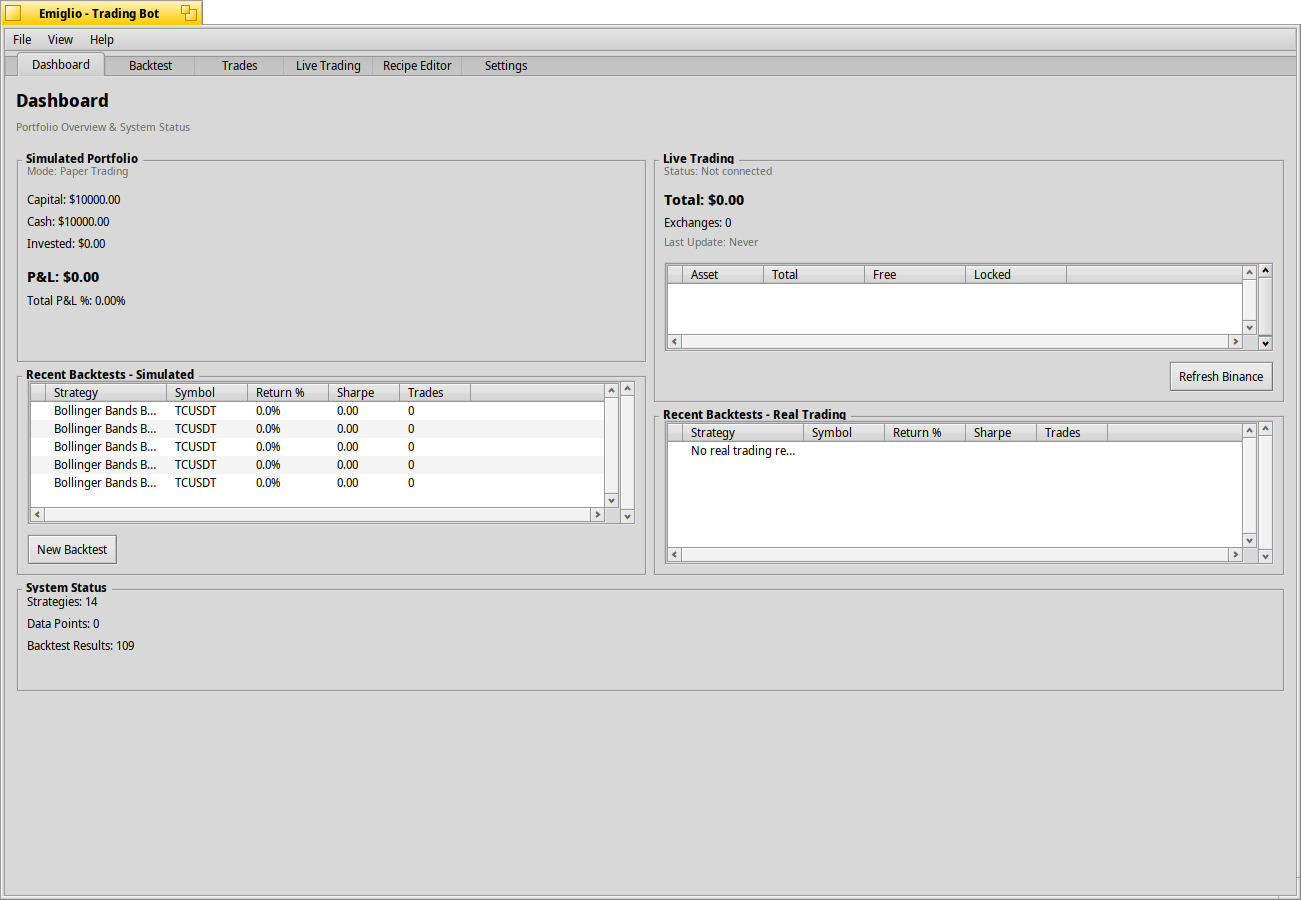
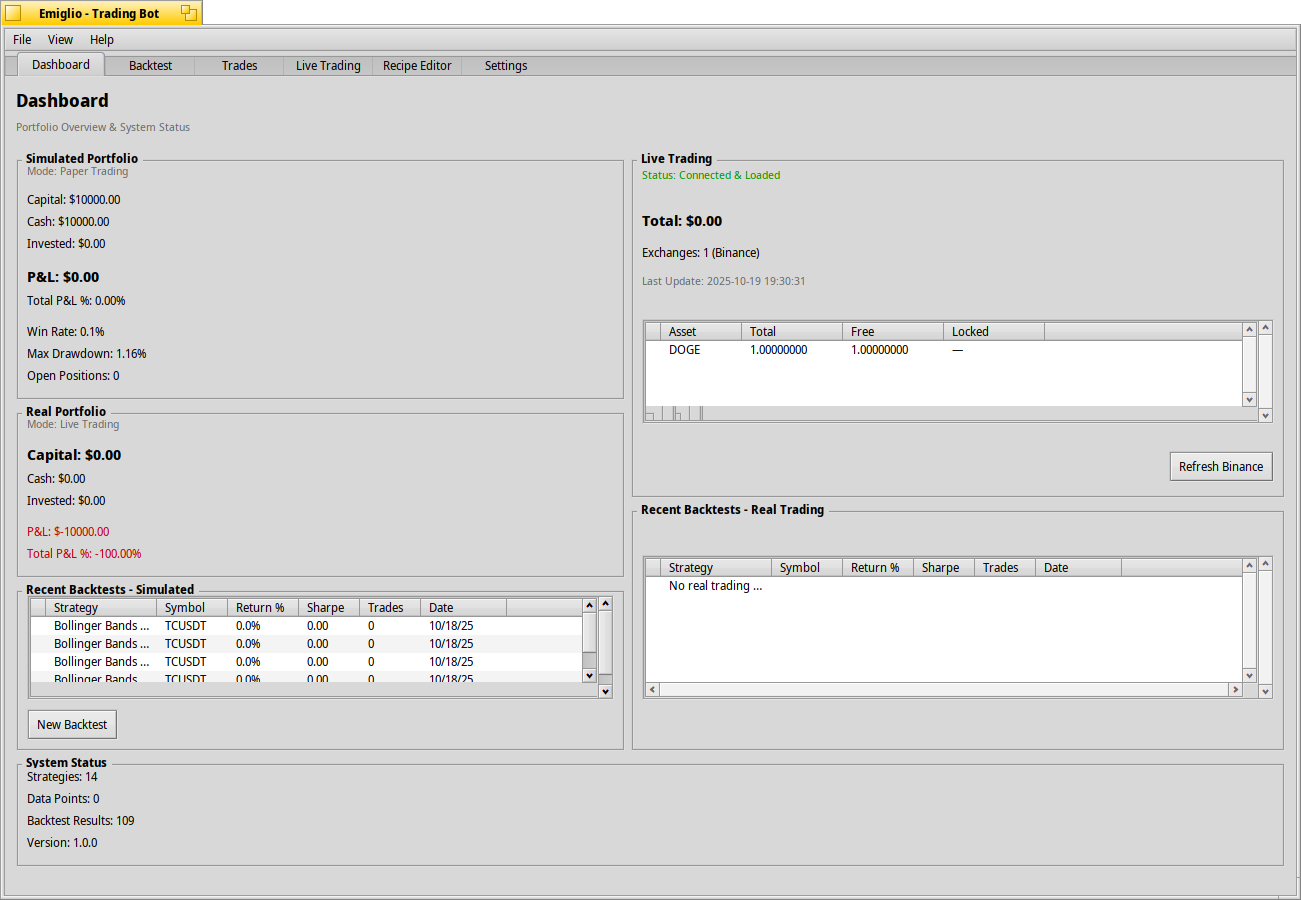
Rationalize Dashboard GUI: clearer section names and fixed placeholders
Improved Dashboard clarity based on GUI analysis:

Section naming improvements:
- "Simulated Portfolio" → "Backtest Portfolio"
  * Subtitle: "Source: Historical Simulations"
  * Clarifies this shows backtest results, not live paper trading

- "Real Portfolio" → "Live Portfolio"
  * Subtitle: "Source: Exchange Account (Real Money)"
  * Emphasizes this is actual money from exchange

- "Live Trading" → "Exchange Account Details"
  * Shows Binance connection status and asset balances
  * Clearer distinction from portfolio summaries

Placeholder fixes:
- Live Portfolio labels now initialize with $0.00 instead of "Loading..."
- Prevents confusion when Binance data not loaded
- User sees 0 values until clicking "Refresh Binance"

Layout improvements:
- Updated comments to reflect new section names
- Left column: Backtest Portfolio + Live Portfolio + Simulated Backtests
- Right column: Exchange Account Details + Real Backtests

Technical changes:
- src/ui/DashboardView.cpp:
  * Line 116: Changed "Simulated Portfolio" to "Backtest Portfolio"
  * Line 118: Changed subtitle to "Source: Historical Simulations"
  * Line 162: Changed "Real Portfolio" to "Live Portfolio"
  * Line 164: Changed subtitle to "Source: Exchange Account (Real Money)"
  * Line 220: Changed "Live Trading" to "Exchange Account Details"
  * Lines 168-177: Changed all "Loading..." to currency-prefixed "0.00"
  * Lines 328-341: Updated layout comments for clarity

User-visible improvements:
[…]

diff --git a/src/ui/DashboardView.cpp b/src/ui/DashboardView.cpp
@@ -113,9 +113,9 @@ void DashboardView::BuildLayout() {
 
 	// ========== SIMULATED PORTFOLIO BOX ==========
 	BBox* simulatedBox = new BBox("simulated_box");
-	simulatedBox->SetLabel("Simulated Portfolio");
+	simulatedBox->SetLabel("Backtest Portfolio");
 
-	BStringView* simModeLabel = new BStringView("", "Mode: Paper Trading");
+	BStringView* simModeLabel = new BStringView("", "Source: Historical Simulations");
 	simModeLabel->SetFont(&labelFont);
 	rgb_color mutedColor = tint_color(ui_color(B_PANEL_TEXT_COLOR), B_LIGHTEN_1_TINT);
 	simModeLabel->SetHighColor(mutedColor);
@@ -157,24 +157,24 @@ void DashboardView::BuildLayout() {
 		.AddGlue()
 		.End();
 
-	// ========== REAL PORTFOLIO BOX ==========
+	// ========== LIVE PORTFOLIO BOX ==========
 	BBox* realBox = new BBox("real_box");
-	realBox->SetLabel("Real Portfolio");
+	realBox->SetLabel("Live Portfolio");
 
-	BStringView* realModeLabel = new BStringView("", "Mode: Live Trading");
+	BStringView* realModeLabel = new BStringView("", "Source: Exchange Account (Real Money)");
 	realModeLabel->SetFont(&labelFont);
 	realModeLabel->SetHighColor(mutedColor);
 
-	realCapitalLabel = new BStringView("", "Capital: Loading...");
-	realCashLabel = new BStringView("", "Cash: Loading...");
-	realInvestedLabel = new BStringView("", "Invested: Loading...");
+	realCapitalLabel = new BStringView("", ("Capital: " + currencySymbol + "0.00").c_str());
+	realCashLabel = new BStringView("", ("Cash: " + currencySymbol + "0.00").c_str());
+	realInvestedLabel = new BStringView("", ("Invested: " + currencySymbol + "0.00").c_str());
 
 	realCapitalLabel->SetFont(&bigValueFont);
 	realCashLabel->SetFont(&valueFont);
 	realInvestedLabel->SetFont(&valueFont);
 
-	realPnLLabel = new BStringView("", "P&L: Loading...");
-	realPnLPercentLabel = new BStringView("", "Total P&L %: Loading...");
+	realPnLLabel = new BStringView("", ("P&L: " + currencySymbol + "0.00").c_str());
+	realPnLPercentLabel = new BStringView("", "Total P&L %: 0.00%");
 
 	realPnLLabel->SetFont(&valueFont);
 	realPnLPercentLabel->SetFont(&valueFont);
@@ -215,9 +215,9 @@ void DashboardView::BuildLayout() {
 		.AddGlue()
 		.End();
 
-	// ========== LIVE PORTFOLIO BOX ==========
+	// ========== EXCHANGE ACCOUNT BOX ==========
 	BBox* liveBox = new BBox("live_box");
-	liveBox->SetLabel("Live Trading");
+	liveBox->SetLabel("Exchange Account Details");
 
 	binanceStatusLabel = new BStringView("", "Status: Not connected");
 	binanceStatusLabel->SetFont(&labelFont);
@@ -325,18 +325,18 @@ void DashboardView::BuildLayout() {
 		.Add(titleView)
 		.Add(subtitleView)
 		.AddStrut(4)
-		// Row 1: Simulated (left) + Real Trading (right)
+		// Row 1: Backtest/Live Portfolios (left) + Exchange/Real Backtests (right)
 		.AddGroup(B_HORIZONTAL, 6)
-			// Left column: Simulated + Real Portfolio sections
+			// Left column: Backtest + Live Portfolio sections
 			.AddGroup(B_VERTICAL, 6)
-				.Add(simulatedBox, 1.0f)
-				.Add(realBox, 1.0f)
-				.Add(simulatedBacktestsBox, 2.0f)
+				.Add(simulatedBox, 1.0f)  // Backtest Portfolio
+				.Add(realBox, 1.0f)        // Live Portfolio
+				.Add(simulatedBacktestsBox, 2.0f)  // Simulated Backtests
 			.End()
-			// Right column: Live Trading + Real Trading Backtests sections
+			// Right column: Exchange Account + Real Trading Backtests
 			.AddGroup(B_VERTICAL, 6)
-				.Add(liveBox, 1.0f)
-				.Add(realBacktestsBox, 2.0f)
+				.Add(liveBox, 1.0f)        // Exchange Account Details
+				.Add(realBacktestsBox, 2.0f)  // Real Backtests
 			.End()
 		.End()
 		// Row 2: System Status (full width)
